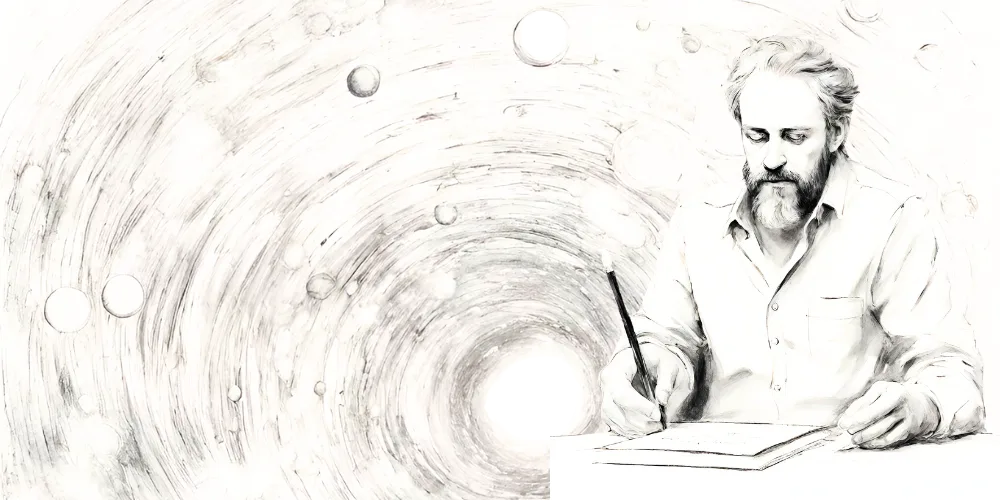
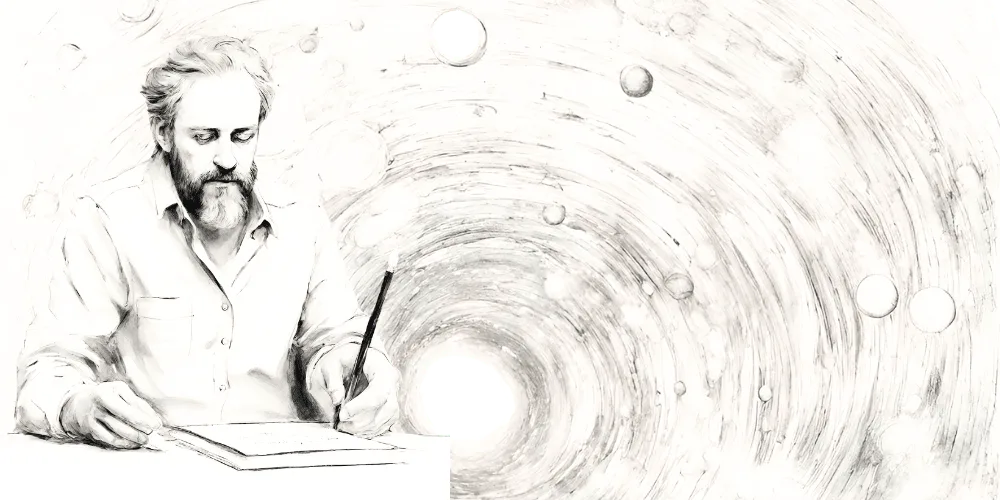
Improv. homepage design

diff --git a/app/(home)/page.tsx b/app/(home)/page.tsx
@@ -3,6 +3,7 @@ import { Separator } from "@/components/ui/separator";
 import MotionGradient from "@/src/feature/layout/effects/GradientBg";
 import MotionHover from "@/src/feature/layout/effects/Hover";
 import MotionLevitation from "@/src/feature/layout/effects/Levitation";
+import MotionParallax from "@/src/feature/layout/effects/Parallax";
 import MotionShow from "@/src/feature/layout/effects/Show";
 import Hero from "@/src/feature/layout/home/Hero";
 import { useNavbarObserver } from "@/src/feature/layout/home/useNavbarObserver";
@@ -246,6 +247,8 @@ export default function Home() {
                   <Image
                     src="https://res.cloudinary.com/dxdwu31ry/image/upload/v1701947246/Ekoseon/Home/Pink_Brown_Modern_Mockup_Podcast_Instagram_Story_vpxhx1.png"
                     alt="Image alternative"
+                    width={600}
+                    height={600}
                     className="w-full h-auto hidden"
                   />
                 </div>
@@ -349,7 +352,7 @@ export default function Home() {
         </section>
         {/* SECTION: Pourquoi consigner */}
         <section className="memories-section  home-section relative">
-          <div className="absolute md:opacity-40 opacity-60 box-border inset-0 bottom-0 z-0  backdrop-brightness-80 h-full">
+          <div className="absolute md:opacity-30 opacity-60 box-border inset-0 bottom-0 z-0  backdrop-brightness-80 h-full">
             <Image
               priority={false}
               src="/img/home/pourquoi-bg.webp"
@@ -364,7 +367,7 @@ export default function Home() {
             </div>
             <ul className="no-home home-pourquoi">
               <li>
-                <div className=" bg-fuchsia-500">
+                <div className=" bg-fuchsia-500 mask mask-decagon">
                   <FontAwesomeIcon icon={faAtom} spin className="m-auto" />
                 </div>
                 <div>
@@ -377,7 +380,7 @@ export default function Home() {
                 </div>
               </li>
               <li>
-                <div className=" bg-pink-500">
+                <div className=" bg-pink-500 mask mask-hexagon-2">
                   <FontAwesomeIcon
                     icon={faGalaxy}
                     spin
@@ -412,7 +415,7 @@ export default function Home() {
                 </div>
               </li>
               <li>
-                <div className=" bg-purple-500">
+                <div className=" bg-purple-500 mask mask-star-2">
                   <FontAwesomeIcon icon={faSun} beatFade className="m-auto" />
                 </div>
                 <div>
@@ -425,15 +428,47 @@ export default function Home() {
                 </div>
               </li>
             </ul>
-            <div>
-              <blockquote className="font-display md:text-4xl text-2xl text-center border p-5 rounded-lg">
-                “Parce qu&apos;un trésor de belles maximes est préférable à un
-                amas de richesses.”
-                <cite className="text-center block text-sm mt-2">
-                  Une maxime du philosophe Socrate, qui ne nous serait jamais
-                  parvenue si Platon ne l&apos;avait pas consignée par écrit il
-                  y a 2400 ans.
-                </cite>
+            <div className="flex flex-col justify-center h-[70vh]   mt-10">
+              <MotionShow
+                threshold={0}
+                className="relative flex justify-center"
+                animation="BottomToTop"
+                triggerOnce={true}>
+                <MotionShow
+                  threshold={0}
+                  className="absolute rounded-lg mx-auto z-10"
+                  animation="beatFade"
+                  duration={60}
+                  repeat={1}
+                  triggerOnce={false}>
+                  <Image
+                    id="Socrate"
+                    alt="Socrate"
+                    src="/img/home/socrate-circle.webp"
+                    width={350}
+                    height={100}
+                    className=""
+                  />
+                </MotionShow>
+                <Image
+                  id="Socrate"
+                  alt="Socrate"
+                  src="/img/home/socrate.webp"
+                  width={300}
+                  height={100}
+                  className="rounded-lg mx-auto z-20 brightness-150 "
+                />
+              </MotionShow>
+              <blockquote className=" rounded-lg flex flex-row z-50">
+                <div className="font-display  md:text-5xl flex items-center my-auto flex-col md:w-2/3 w-full mx-auto text-4xl mt-20 text-center ">
+                  “Parce qu&apos;un trésor de belles maximes est préférable à un
+                  amas de richesses.”
+                  <cite className="text-center block text-sm mt-2">
+                    Une maxime du philosophe Socrate, qui ne nous serait jamais
+                    parvenue si Platon ne l&apos;avait pas consignée par écrit
+                    il y a 2400 ans.
+                  </cite>
+                </div>
               </blockquote>
             </div>
           </div>

diff --git a/src/feature/layout/effects/Show.tsx b/src/feature/layout/effects/Show.tsx
@@ -25,10 +25,13 @@ interface MotionShowProps {
     | "scaleUp"
     | "scaleDown"
     | "flipX"
-    | "flipY";
+    | "flipY"
+    | "infinityRotate"
+    | "beatFade";
   slowNtw?: boolean;
   initial?: boolean;
   className?: string;
+  repeat?: number | "Infinity";
 }
 
 const variants: { [key: string]: Variants } = {
@@ -100,6 +103,14 @@ const variants: { [key: string]: Variants } = {
     visible: { opacity: 1, rotateY: 0 },
     hidden: { opacity: 0, rotateY: 90 },
   },
+  infinityRotate: {
+    visible: { opacity: 1, rotate: [0, 360] },
+    hidden: { opacity: 0, rotate: 0 },
+  },
+  beatFade: {
+    visible: { opacity: 1, scale: [1, 1.8, 1] },
+    hidden: { opacity: 1, scale: 0 },
+  },
 };
 
 const MotionShow: React.FC<MotionShowProps> = ({
@@ -110,6 +121,7 @@ const MotionShow: React.FC<MotionShowProps> = ({
   animation = "BottomToTop",
   initial,
   className,
+  repeat = undefined,
 }) => {
   const controls = useAnimation();
   const { ref, inView } = useInView({
@@ -139,7 +151,12 @@ const MotionShow: React.FC<MotionShowProps> = ({
         className={className}
         animate={controls}
         initial={initial ? initial : "hidden"}
-        transition={{ duration: duration, type: "tween", stiffness: 50 }}
+        transition={{
+          repeat: repeat == "Infinity" ? Infinity : repeat,
+          duration: duration,
+          type: "tween",
+          stiffness: 50,
+        }}
         variants={variants[animation]}>
         {children}
       </motion.div>
